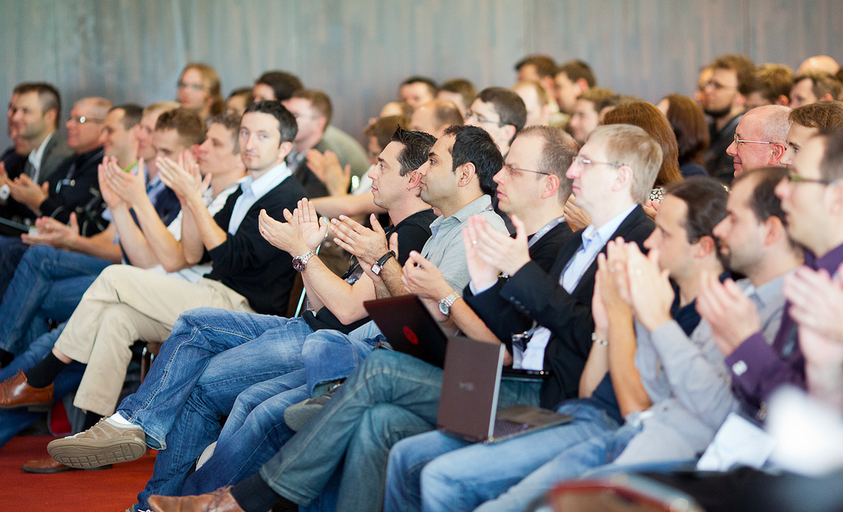
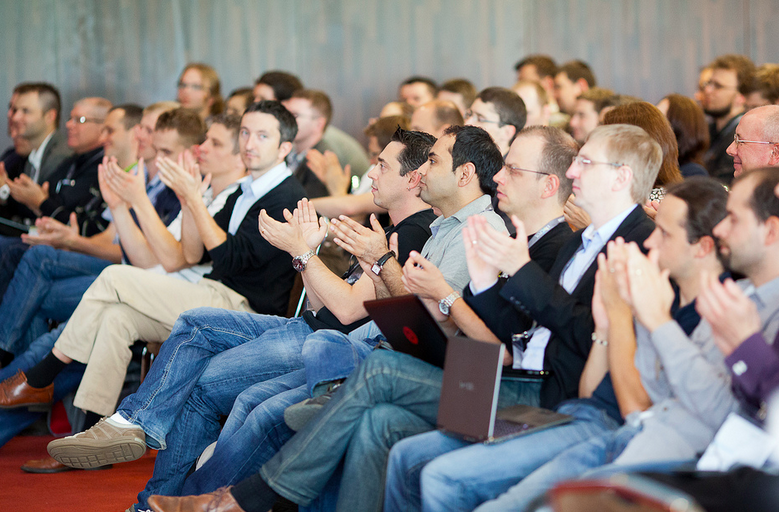
Our team
Image size fix for our team

Home page images resized. They are all same size now

Footer logo now points to /index.html instead of index.html

Fixing images on home page

diff --git a/AboutUs/OurTeam.html b/AboutUs/OurTeam.html
@@ -1,0 +1,36 @@
+---
+layout: homepage
+group: About Us
+title: Our Team
+---
+
+<div class="container">
+    <!--Our Team-->
+    <div class="row team">
+        <div class="col-sm-4">
+            <div class="thumbnail-style">
+                <img class="img-responsive" src="/assets/img/team/sandro.png" alt="" width="270" height="270"/>
+                <h3><a>Sandro Mancuso</a> <small>Software Craftsman | Co-founder</small></h3>
+                <p>Software craftsman, <a href="http://leanpub.com/socra" target="_blank">author</a>, and founder of the <a href="http://londonswcraft.com" target="_blank">London Software Craftsmanship Community (LSCC)</a>. Sandro has been coding since a very young age but just started his professional career in 1996. He has worked for startups, software houses, product companies, international consultancy companies, and investment banks. During his career Sandro had the opportunity to work in a good variety of projects, with different languages, technologies, and across many different industries. Sandro has a lot of experience in bringing the Software Craftsmanship ideology and Extreme Programming practices to organisations of all sizes.
+                Sandro is internationally renowned by his work on evolving and spreading Software Craftsmanship and is a frequent speaker in many conferences around the world.
+                His main goal as a professional is to help to raise the bar of software development sharing his experience and learning from other developers.</p>
+                <ul class="list-unstyled list-inline team-socail">
+                    <li><a href="http://twitter.com/sandromancuso" target="_blank"><i class="icon-twitter"></i></a></li>
+                    <li><a href="http://github.com/sandromancuso" target="_blank"><i class="icon-github"></i></a></li>
+                </ul>
+            </div>
+        </div>
+        <div class="col-sm-4">
+            <div class="thumbnail-style">
+                <img class="img-responsive" src="/assets/img/team/mash.jpg" alt="" width="270" height="270"/>
+                <h3><a>Mashooq Badar</a> <small>Software Craftsman | Co-founder</small></h3>
+                <p>Mash is a software craftsman with extensive experience in developing innovative solutions and running large scale enterprise projects. For many years he was a Principal Consultant leading some of the most diverse projects for clients in Government, Media and Finance. Before Codurance Mash was a Director at UBS leading a 4 million pounds a year project with 6 development teams situated in London and Krakow. He started the project from scratch, building the teams a developer at a time. Mash is also an associated organiser for LSCC, involved since the beginning helping with organisation and running hands-on sessions.</p>
+                <ul class="list-unstyled list-inline team-socail">
+                    <li><a href="http://twitter.com/mashooq" target="_blank"><i class="icon-twitter"></i></a></li>
+                    <li><a href="http://github.com/mashooq" target="_blank"><i class="icon-github"></i></a></li>
+                </ul>
+            </div>
+        </div>
+    </div><!--/team-->
+    <!--End Our Team-->
+</div>

diff --git a/_includes/header.html b/_includes/header.html
@@ -19,10 +19,11 @@
                 <ul class="nav navbar-nav navbar-right">
                     <li class="dropdown {% if page.group contains 'About Us' %}active{% endif %}" >
                         <a href="/AboutUs/OurCompany.html" class="dropdown-toggle" data-toggle="dropdown" data-hover="dropdown" data-delay="0" data-close-others="false">
-                          About Us 
+                          About Us
                             <i class="icon-angle-down"></i>
                         </a>
                         <ul class="dropdown-menu">
+                            <li {% if page.title contains 'Our Team' %}class="active"{% endif %}><a href="/AboutUs/OurTeam.html">Our Team</a></li>
                             <li {% if page.title contains 'Our Company' %}class="active"{% endif %}><a href="/AboutUs/OurCompany.html">Our Company</a></li>
                             <li {% if page.title contains 'Our Services' %}class="active"{% endif %}><a href="/AboutUs/OurServices.html">Our Services</a></li>
                             <li><a href="#">Our Practices</a></li>
@@ -30,7 +31,7 @@
                     </li>
                     <li class="dropdown {% if page.group contains 'Our Work' %}active{% endif %}">
                         <a href="#" class="dropdown-toggle" data-toggle="dropdown" data-hover="dropdown" data-delay="0" data-close-others="false">
-                          Our Work 
+                          Our Work
                             <i class="icon-angle-down"></i>
                         </a>
                         <ul class="dropdown-menu">
@@ -40,7 +41,7 @@
                     </li>
                     <li class="dropdown">
                         <a href="#" class="dropdown-toggle" data-toggle="dropdown" data-hover="dropdown" data-delay="0" data-close-others="false">
-                          Community 
+                          Community
                             <i class="icon-angle-down"></i>
                         </a>
                         <ul class="dropdown-menu">
@@ -56,10 +57,10 @@
                             <button class="btn-u" type="button">Go</button>
                         </span>
                     </div><!-- /input-group -->
-                </div>                
+                </div>
             </div><!-- /navbar-collapse -->
-        </div>    
-    </div>    
+        </div>
+    </div>
 </div><!--/header-->
 
 

diff --git a/index.html b/index.html
@@ -96,7 +96,7 @@ title: Home
                 <div class="caption">
                     <h3><a class="hover-effect" href="/OurWork/CaseStudies.html">Our work at UBS</a></h3>
 
-                    <p>We are currently helping UBS build their next generation of Regulatory Reporting and Back Office
+                    <p>We are currently helping UBS build their next generation of Regulatory Reporting, Risk Assesment, and Back Office
                         platforms.</p>
                 </div>
             </div>
@@ -110,7 +110,7 @@ title: Home
                     <a class="btn-more hover-effect" href="#">read more +</a>
                 </div>
                 <div class="caption">
-                    <h3><a class="hover-effect" href="#">Training for Skillsmatter</a></h3>
+                    <h3><a class="hover-effect" href="#">Skills Matter Training</a></h3>
 
                     <p>We are creating Software Craftsmanship and Enterprise Systems courses for Skills Matter.</p>
                 </div>
@@ -127,8 +127,7 @@ title: Home
                 <div class="caption">
                     <h3><a class="hover-effect" href="#">Conferences</a></h3>
 
-                    <p>We regularly speak at conferences on topics ranging from Test Driven Development to Recruitment
-                        and Effective Team Building.</p>
+                    <p>We regularly speak at conferences on topics including Software Craftsmanship, XP, Test Driven Development, Building Great Teams, Software Design and much more.</p>
                 </div>
             </div>
         </div>
@@ -136,7 +135,7 @@ title: Home
             <div class="thumbnails thumbnail-style thumbnail-kenburn">
                 <div class="thumbnail-img">
                     <div class="overflow-hidden">
-                        <img class="img-responsive" src="/assets/img/main/8.jpg" alt=""/>
+                        <img class="img-responsive" src="/assets/img/enterprise.jpg" alt=""/>
                     </div>
                     <a class="btn-more hover-effect" href="#">read more +</a>
                 </div>

diff --git a/_includes/footer.html b/_includes/footer.html
@@ -7,10 +7,10 @@
                 </p>
             </div>
             <div class="col-md-6">
-                <a href="index.html">
+                <a href="/index.html">
                     <img id="logo-footer" src="/assets/img/logo1-orange.png" height="40" class="pull-right" alt=""/>
                 </a>
             </div>
         </div> <!--/row-->
     </div> <!--/container-->
-</div><!--/copyright-->	
+</div><!--/copyright-->
